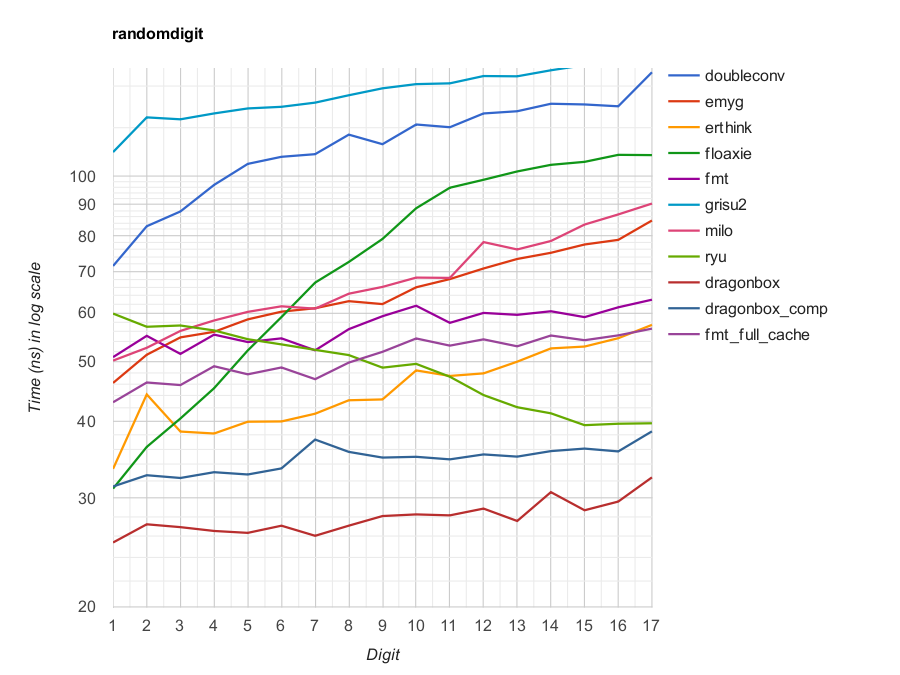
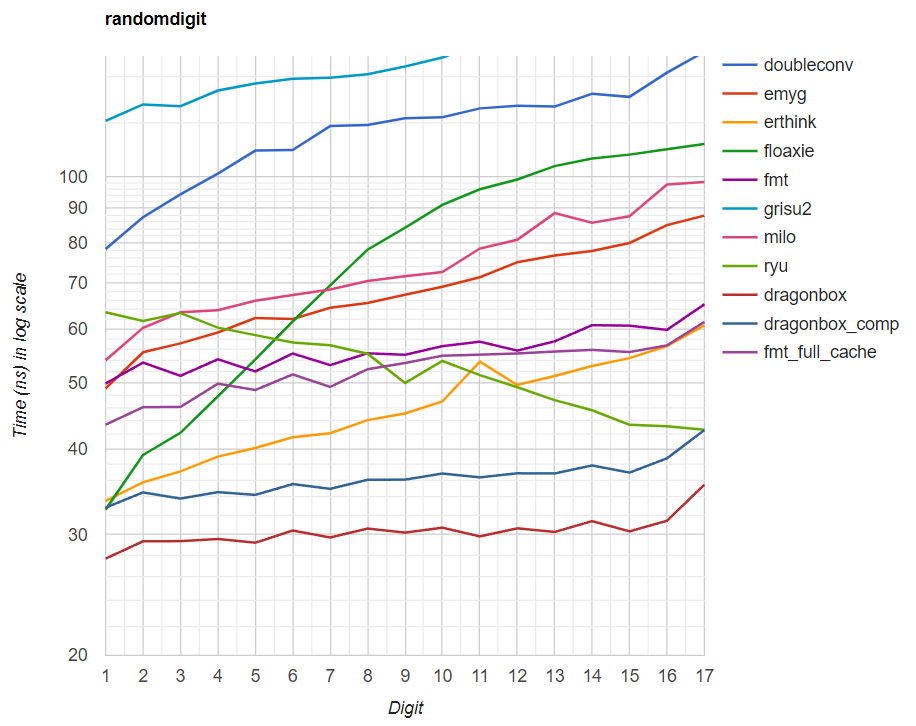
Rerun Milo's benchmark

diff --git a/other_files/unknown_win64_vc2019.html b/other_files/unknown_win64_vc2019.html
@@ -329,194 +329,194 @@ body { padding-top: 70px; }
 <h2>Source CSV</h2>
 <textarea id="textInput" class="form-control" rows="5" readonly>
   Type,Function,Digit,Time(ns)
-randomdigit,doubleconv,1,71.223000
-randomdigit,doubleconv,2,83.739000
-randomdigit,doubleconv,3,87.977000
-randomdigit,doubleconv,4,90.844000
-randomdigit,doubleconv,5,96.071000
-randomdigit,doubleconv,6,100.920000
-randomdigit,doubleconv,7,106.860000
-randomdigit,doubleconv,8,107.243000
-randomdigit,doubleconv,9,107.882000
-randomdigit,doubleconv,10,114.161000
-randomdigit,doubleconv,11,120.089000
-randomdigit,doubleconv,12,124.157000
-randomdigit,doubleconv,13,121.921000
-randomdigit,doubleconv,14,124.308000
-randomdigit,doubleconv,15,127.801000
-randomdigit,doubleconv,16,133.545000
-randomdigit,doubleconv,17,140.764000
-randomdigit,emyg,1,49.488000
-randomdigit,emyg,2,54.384000
-randomdigit,emyg,3,56.676000
-randomdigit,emyg,4,58.776000
-randomdigit,emyg,5,62.045000
-randomdigit,emyg,6,59.798000
-randomdigit,emyg,7,60.171000
-randomdigit,emyg,8,62.302000
-randomdigit,emyg,9,63.449000
-randomdigit,emyg,10,64.685000
-randomdigit,emyg,11,65.412000
-randomdigit,emyg,12,66.872000
-randomdigit,emyg,13,68.013000
-randomdigit,emyg,14,69.450000
-randomdigit,emyg,15,71.172000
-randomdigit,emyg,16,74.847000
-randomdigit,emyg,17,77.391000
-randomdigit,erthink,1,34.692000
-randomdigit,erthink,2,35.652000
-randomdigit,erthink,3,37.090000
-randomdigit,erthink,4,37.854000
-randomdigit,erthink,5,40.699000
-randomdigit,erthink,6,42.624000
-randomdigit,erthink,7,44.213000
-randomdigit,erthink,8,45.829000
-randomdigit,erthink,9,46.268000
-randomdigit,erthink,10,47.757000
-randomdigit,erthink,11,49.229000
-randomdigit,erthink,12,54.313000
-randomdigit,erthink,13,52.171000
-randomdigit,erthink,14,56.760000
-randomdigit,erthink,15,58.601000
-randomdigit,erthink,16,56.738000
-randomdigit,erthink,17,57.844000
-randomdigit,floaxie,1,32.675000
-randomdigit,floaxie,2,38.321000
-randomdigit,floaxie,3,42.846000
-randomdigit,floaxie,4,49.954000
-randomdigit,floaxie,5,56.737000
-randomdigit,floaxie,6,61.745000
-randomdigit,floaxie,7,69.012000
-randomdigit,floaxie,8,77.025000
-randomdigit,floaxie,9,83.648000
-randomdigit,floaxie,10,87.588000
-randomdigit,floaxie,11,92.134000
-randomdigit,floaxie,12,96.296000
-randomdigit,floaxie,13,98.109000
-randomdigit,floaxie,14,99.591000
-randomdigit,floaxie,15,100.592000
-randomdigit,floaxie,16,101.807000
-randomdigit,floaxie,17,101.887000
-randomdigit,fmt,1,53.977000
-randomdigit,fmt,2,57.743000
-randomdigit,fmt,3,58.027000
-randomdigit,fmt,4,57.938000
-randomdigit,fmt,5,57.543000
-randomdigit,fmt,6,58.663000
-randomdigit,fmt,7,58.296000
-randomdigit,fmt,8,59.124000
-randomdigit,fmt,9,62.657000
-randomdigit,fmt,10,63.963000
-randomdigit,fmt,11,63.576000
-randomdigit,fmt,12,64.037000
-randomdigit,fmt,13,61.003000
-randomdigit,fmt,14,60.267000
-randomdigit,fmt,15,61.596000
-randomdigit,fmt,16,64.429000
-randomdigit,fmt,17,64.504000
-randomdigit,grisu2,1,103.766000
-randomdigit,grisu2,2,113.021000
-randomdigit,grisu2,3,112.313000
-randomdigit,grisu2,4,114.278000
-randomdigit,grisu2,5,116.382000
-randomdigit,grisu2,6,118.683000
-randomdigit,grisu2,7,120.528000
-randomdigit,grisu2,8,124.457000
-randomdigit,grisu2,9,126.515000
-randomdigit,grisu2,10,127.444000
-randomdigit,grisu2,11,129.016000
-randomdigit,grisu2,12,131.285000
-randomdigit,grisu2,13,129.324000
-randomdigit,grisu2,14,131.143000
-randomdigit,grisu2,15,133.030000
-randomdigit,grisu2,16,134.716000
-randomdigit,grisu2,17,140.260000
-randomdigit,milo,1,51.258000
-randomdigit,milo,2,54.217000
-randomdigit,milo,3,56.843000
-randomdigit,milo,4,57.965000
-randomdigit,milo,5,60.638000
-randomdigit,milo,6,62.935000
-randomdigit,milo,7,64.241000
-randomdigit,milo,8,66.264000
-randomdigit,milo,9,67.355000
-randomdigit,milo,10,69.715000
-randomdigit,milo,11,72.008000
-randomdigit,milo,12,72.875000
-randomdigit,milo,13,81.763000
-randomdigit,milo,14,80.948000
-randomdigit,milo,15,85.340000
-randomdigit,milo,16,83.437000
-randomdigit,milo,17,96.519000
-randomdigit,ryu,1,54.887000
-randomdigit,ryu,2,55.220000
-randomdigit,ryu,3,54.280000
-randomdigit,ryu,4,52.602000
-randomdigit,ryu,5,51.612000
-randomdigit,ryu,6,50.740000
-randomdigit,ryu,7,49.837000
-randomdigit,ryu,8,48.804000
-randomdigit,ryu,9,46.491000
-randomdigit,ryu,10,48.427000
-randomdigit,ryu,11,46.493000
-randomdigit,ryu,12,44.799000
-randomdigit,ryu,13,43.150000
-randomdigit,ryu,14,42.205000
-randomdigit,ryu,15,40.604000
-randomdigit,ryu,16,39.912000
-randomdigit,ryu,17,39.437000
-randomdigit,dragonbox,1,29.427000
-randomdigit,dragonbox,2,31.778000
-randomdigit,dragonbox,3,30.199000
-randomdigit,dragonbox,4,31.238000
-randomdigit,dragonbox,5,29.360000
-randomdigit,dragonbox,6,30.439000
-randomdigit,dragonbox,7,28.457000
-randomdigit,dragonbox,8,30.089000
-randomdigit,dragonbox,9,29.953000
-randomdigit,dragonbox,10,30.676000
-randomdigit,dragonbox,11,31.074000
-randomdigit,dragonbox,12,30.812000
-randomdigit,dragonbox,13,29.128000
-randomdigit,dragonbox,14,28.778000
-randomdigit,dragonbox,15,30.860000
-randomdigit,dragonbox,16,28.859000
-randomdigit,dragonbox,17,33.514000
-randomdigit,dragonbox_comp,1,33.047000
-randomdigit,dragonbox_comp,2,35.702000
-randomdigit,dragonbox_comp,3,33.917000
-randomdigit,dragonbox_comp,4,36.103000
-randomdigit,dragonbox_comp,5,33.100000
-randomdigit,dragonbox_comp,6,34.315000
-randomdigit,dragonbox_comp,7,34.149000
-randomdigit,dragonbox_comp,8,36.791000
-randomdigit,dragonbox_comp,9,35.710000
-randomdigit,dragonbox_comp,10,36.800000
-randomdigit,dragonbox_comp,11,37.123000
-randomdigit,dragonbox_comp,12,36.863000
-randomdigit,dragonbox_comp,13,35.854000
-randomdigit,dragonbox_comp,14,35.038000
-randomdigit,dragonbox_comp,15,34.857000
-randomdigit,dragonbox_comp,16,34.560000
-randomdigit,dragonbox_comp,17,39.080000
-randomdigit,fmt_full_cache,1,45.122000
-randomdigit,fmt_full_cache,2,45.366000
-randomdigit,fmt_full_cache,3,49.022000
-randomdigit,fmt_full_cache,4,50.854000
-randomdigit,fmt_full_cache,5,51.579000
-randomdigit,fmt_full_cache,6,52.227000
-randomdigit,fmt_full_cache,7,51.044000
-randomdigit,fmt_full_cache,8,50.727000
-randomdigit,fmt_full_cache,9,54.859000
-randomdigit,fmt_full_cache,10,55.533000
-randomdigit,fmt_full_cache,11,53.122000
-randomdigit,fmt_full_cache,12,55.535000
-randomdigit,fmt_full_cache,13,53.757000
-randomdigit,fmt_full_cache,14,54.531000
-randomdigit,fmt_full_cache,15,54.673000
-randomdigit,fmt_full_cache,16,58.299000
-randomdigit,fmt_full_cache,17,60.408000
-</textarea>
+randomdigit,doubleconv,1,78.459000
+randomdigit,doubleconv,2,87.333000
+randomdigit,doubleconv,3,94.309000
+randomdigit,doubleconv,4,101.148000
+randomdigit,doubleconv,5,109.301000
+randomdigit,doubleconv,6,109.501000
+randomdigit,doubleconv,7,118.698000
+randomdigit,doubleconv,8,119.117000
+randomdigit,doubleconv,9,121.857000
+randomdigit,doubleconv,10,122.282000
+randomdigit,doubleconv,11,126.005000
+randomdigit,doubleconv,12,127.141000
+randomdigit,doubleconv,13,126.773000
+randomdigit,doubleconv,14,132.406000
+randomdigit,doubleconv,15,130.986000
+randomdigit,doubleconv,16,142.143000
+randomdigit,doubleconv,17,152.495000
+randomdigit,emyg,1,49.045000
+randomdigit,emyg,2,55.411000
+randomdigit,emyg,3,57.084000
+randomdigit,emyg,4,59.229000
+randomdigit,emyg,5,62.176000
+randomdigit,emyg,6,62.003000
+randomdigit,emyg,7,64.376000
+randomdigit,emyg,8,65.390000
+randomdigit,emyg,9,67.238000
+randomdigit,emyg,10,69.076000
+randomdigit,emyg,11,71.325000
+randomdigit,emyg,12,75.057000
+randomdigit,emyg,13,76.751000
+randomdigit,emyg,14,77.952000
+randomdigit,emyg,15,80.068000
+randomdigit,emyg,16,85.035000
+randomdigit,emyg,17,87.798000
+randomdigit,erthink,1,33.585000
+randomdigit,erthink,2,35.746000
+randomdigit,erthink,3,37.096000
+randomdigit,erthink,4,38.982000
+randomdigit,erthink,5,40.127000
+randomdigit,erthink,6,41.600000
+randomdigit,erthink,7,42.179000
+randomdigit,erthink,8,44.082000
+randomdigit,erthink,9,45.079000
+randomdigit,erthink,10,46.947000
+randomdigit,erthink,11,53.679000
+randomdigit,erthink,12,49.626000
+randomdigit,erthink,13,51.138000
+randomdigit,erthink,14,52.888000
+randomdigit,erthink,15,54.329000
+randomdigit,erthink,16,56.591000
+randomdigit,erthink,17,60.667000
+randomdigit,floaxie,1,32.630000
+randomdigit,floaxie,2,39.209000
+randomdigit,floaxie,3,42.250000
+randomdigit,floaxie,4,47.750000
+randomdigit,floaxie,5,54.084000
+randomdigit,floaxie,6,61.493000
+randomdigit,floaxie,7,69.409000
+randomdigit,floaxie,8,78.260000
+randomdigit,floaxie,9,84.281000
+randomdigit,floaxie,10,91.064000
+randomdigit,floaxie,11,95.948000
+randomdigit,floaxie,12,99.179000
+randomdigit,floaxie,13,103.726000
+randomdigit,floaxie,14,106.436000
+randomdigit,floaxie,15,107.823000
+randomdigit,floaxie,16,109.790000
+randomdigit,floaxie,17,111.747000
+randomdigit,fmt,1,49.873000
+randomdigit,fmt,2,53.514000
+randomdigit,fmt,3,51.179000
+randomdigit,fmt,4,54.108000
+randomdigit,fmt,5,51.936000
+randomdigit,fmt,6,55.172000
+randomdigit,fmt,7,53.064000
+randomdigit,fmt,8,55.216000
+randomdigit,fmt,9,54.939000
+randomdigit,fmt,10,56.561000
+randomdigit,fmt,11,57.420000
+randomdigit,fmt,12,55.717000
+randomdigit,fmt,13,57.486000
+randomdigit,fmt,14,60.700000
+randomdigit,fmt,15,60.603000
+randomdigit,fmt,16,59.742000
+randomdigit,fmt,17,65.131000
+randomdigit,grisu2,1,120.831000
+randomdigit,grisu2,2,127.696000
+randomdigit,grisu2,3,126.901000
+randomdigit,grisu2,4,133.807000
+randomdigit,grisu2,5,137.034000
+randomdigit,grisu2,6,139.217000
+randomdigit,grisu2,7,139.724000
+randomdigit,grisu2,8,141.315000
+randomdigit,grisu2,9,145.110000
+randomdigit,grisu2,10,149.569000
+randomdigit,grisu2,11,156.657000
+randomdigit,grisu2,12,160.463000
+randomdigit,grisu2,13,163.481000
+randomdigit,grisu2,14,165.619000
+randomdigit,grisu2,15,166.089000
+randomdigit,grisu2,16,172.497000
+randomdigit,grisu2,17,181.788000
+randomdigit,milo,1,53.926000
+randomdigit,milo,2,60.153000
+randomdigit,milo,3,63.386000
+randomdigit,milo,4,63.845000
+randomdigit,milo,5,65.914000
+randomdigit,milo,6,67.201000
+randomdigit,milo,7,68.445000
+randomdigit,milo,8,70.460000
+randomdigit,milo,9,71.553000
+randomdigit,milo,10,72.617000
+randomdigit,milo,11,78.578000
+randomdigit,milo,12,80.934000
+randomdigit,milo,13,88.537000
+randomdigit,milo,14,85.727000
+randomdigit,milo,15,87.594000
+randomdigit,milo,16,97.470000
+randomdigit,milo,17,98.293000
+randomdigit,ryu,1,63.388000
+randomdigit,ryu,2,61.571000
+randomdigit,ryu,3,63.211000
+randomdigit,ryu,4,60.217000
+randomdigit,ryu,5,58.703000
+randomdigit,ryu,6,57.261000
+randomdigit,ryu,7,56.742000
+randomdigit,ryu,8,55.131000
+randomdigit,ryu,9,49.953000
+randomdigit,ryu,10,53.806000
+randomdigit,ryu,11,51.291000
+randomdigit,ryu,12,49.256000
+randomdigit,ryu,13,47.162000
+randomdigit,ryu,14,45.579000
+randomdigit,ryu,15,43.387000
+randomdigit,ryu,16,43.176000
+randomdigit,ryu,17,42.666000
+randomdigit,dragonbox,1,27.650000
+randomdigit,dragonbox,2,29.309000
+randomdigit,dragonbox,3,29.324000
+randomdigit,dragonbox,4,29.538000
+randomdigit,dragonbox,5,29.173000
+randomdigit,dragonbox,6,30.391000
+randomdigit,dragonbox,7,29.689000
+randomdigit,dragonbox,8,30.594000
+randomdigit,dragonbox,9,30.180000
+randomdigit,dragonbox,10,30.685000
+randomdigit,dragonbox,11,29.797000
+randomdigit,dragonbox,12,30.619000
+randomdigit,dragonbox,13,30.249000
+randomdigit,dragonbox,14,31.367000
+randomdigit,dragonbox,15,30.308000
+randomdigit,dragonbox,16,31.410000
+randomdigit,dragonbox,17,35.472000
+randomdigit,dragonbox_comp,1,32.825000
+randomdigit,dragonbox_comp,2,34.558000
+randomdigit,dragonbox_comp,3,33.846000
+randomdigit,dragonbox_comp,4,34.591000
+randomdigit,dragonbox_comp,5,34.269000
+randomdigit,dragonbox_comp,6,35.542000
+randomdigit,dragonbox_comp,7,34.974000
+randomdigit,dragonbox_comp,8,36.058000
+randomdigit,dragonbox_comp,9,36.077000
+randomdigit,dragonbox_comp,10,36.825000
+randomdigit,dragonbox_comp,11,36.354000
+randomdigit,dragonbox_comp,12,36.855000
+randomdigit,dragonbox_comp,13,36.837000
+randomdigit,dragonbox_comp,14,37.842000
+randomdigit,dragonbox_comp,15,36.943000
+randomdigit,dragonbox_comp,16,38.763000
+randomdigit,dragonbox_comp,17,42.631000
+randomdigit,fmt_full_cache,1,43.418000
+randomdigit,fmt_full_cache,2,46.050000
+randomdigit,fmt_full_cache,3,46.090000
+randomdigit,fmt_full_cache,4,49.843000
+randomdigit,fmt_full_cache,5,48.798000
+randomdigit,fmt_full_cache,6,51.422000
+randomdigit,fmt_full_cache,7,49.316000
+randomdigit,fmt_full_cache,8,52.332000
+randomdigit,fmt_full_cache,9,53.438000
+randomdigit,fmt_full_cache,10,54.767000
+randomdigit,fmt_full_cache,11,54.962000
+randomdigit,fmt_full_cache,12,55.187000
+randomdigit,fmt_full_cache,13,55.543000
+randomdigit,fmt_full_cache,14,55.850000
+randomdigit,fmt_full_cache,15,55.447000
+randomdigit,fmt_full_cache,16,56.709000
+randomdigit,fmt_full_cache,17,61.359000
+  </textarea>
 </div>
 <div class="row" id="downloadDD" style="display: none">
 <div class="btn-group pull-right" >
